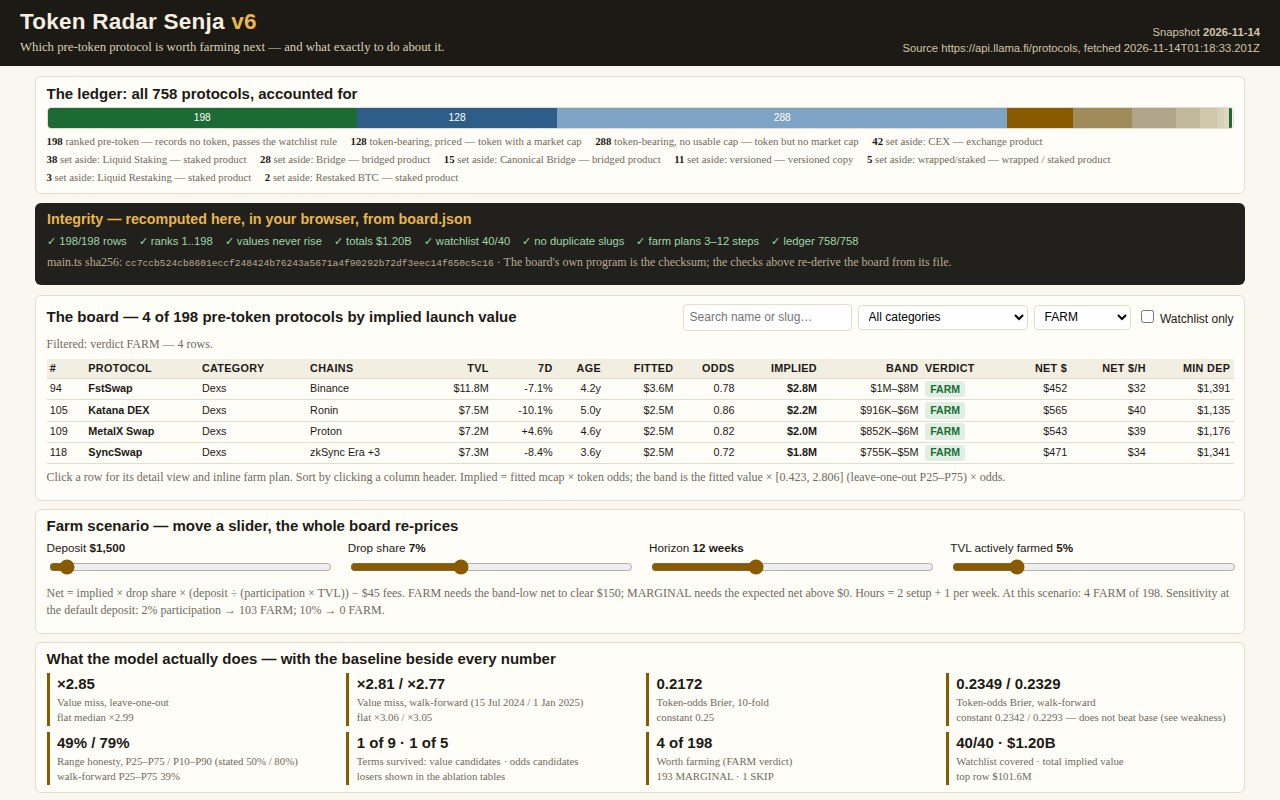
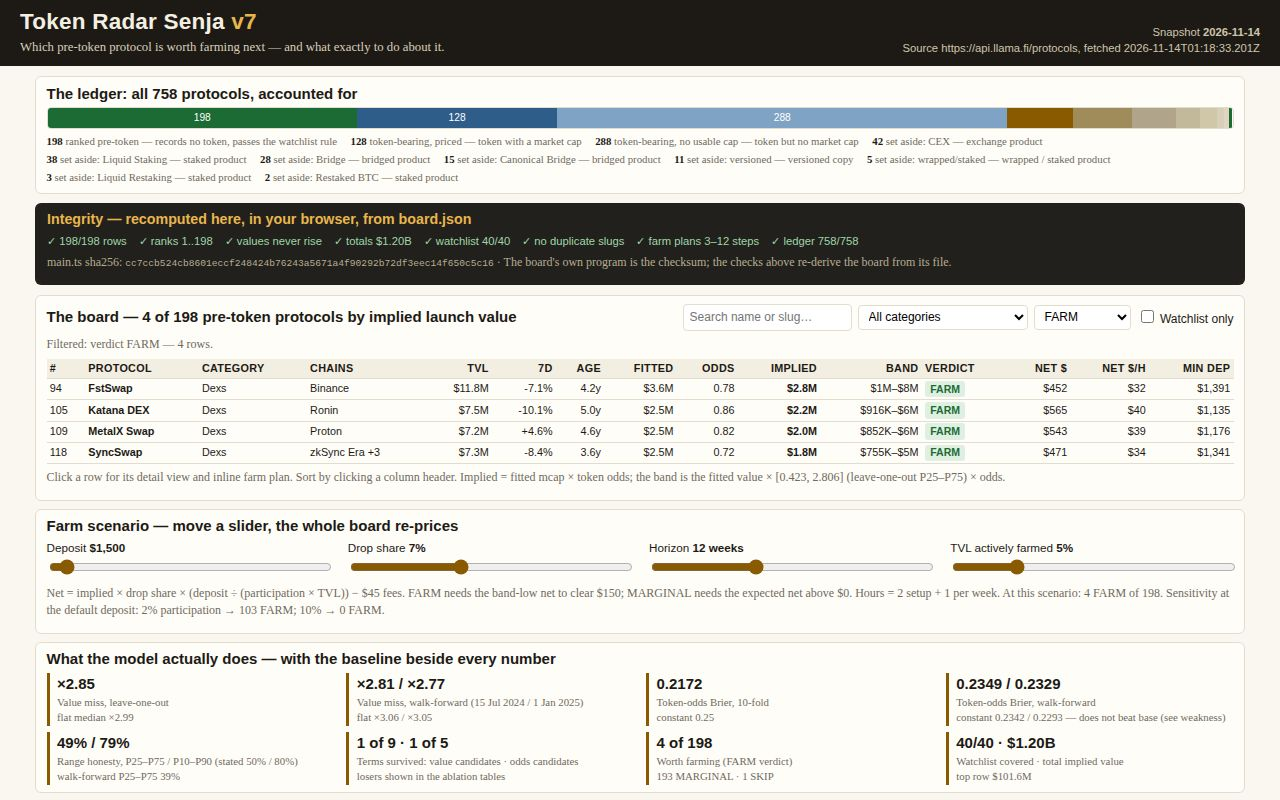
dashboard: v6 label -> v7; re-render screenshots

Changed region(s): [[0.1875, 0.0, 0.2188, 0.0312]]

diff --git a/dashboard/index.html b/dashboard/index.html
@@ -3,14 +3,14 @@
 <head>
 <meta charset="utf-8">
 <meta name="viewport" content="width=device-width, initial-scale=1">
-<title>Token Radar Senja v6 — evidence-first launch-value board</title>
+<title>Token Radar Senja v7 — evidence-first launch-value board</title>
 <link rel="stylesheet" href="app.css">
 </head>
 <body>
 <header class="masthead">
   <div class="masthead-in">
     <div>
-      <h1>Token Radar Senja <span class="v6">v6</span></h1>
+      <h1>Token Radar Senja <span class="v7">v7</span></h1>
       <p class="sub">Which pre-token protocol is worth farming next — and what exactly to do about it.</p>
     </div>
     <div class="mast-side">
@@ -126,7 +126,7 @@
 </main>
 
 <footer>
-  <p>Token Radar Senja v6 · Built from the sealed DefiLlama snapshot of 2026-11-14. Implied values are this entry's own claims, never make.fun's. <span id="footChecksum"></span></p>
+  <p>Token Radar Senja v7 · Built from the sealed DefiLlama snapshot of 2026-11-14. Implied values are this entry's own claims, never make.fun's. <span id="footChecksum"></span></p>
 </footer>
 
 <script src="evidence.js"></script>

diff --git a/dashboard/app.css b/dashboard/app.css
@@ -1,4 +1,4 @@
-/* Token Radar Senja v6 — light editorial theme. Cream paper, ink text, one accent. */
+/* Token Radar Senja v7 — light editorial theme. Cream paper, ink text, one accent. */
 :root{
   --paper:#faf7f0; --card:#fffdf8; --ink:#1d1a16; --muted:#6f6a5e; --line:#e3ddd0;
   --accent:#8a5a00; --accent-bg:#f3e5c8; --green:#1d6b34; --green-bg:#dff0e2;
@@ -19,7 +19,7 @@ a{color:var(--accent)}
 .masthead{background:#1d1a16;color:#f5efe2;padding:.5rem 1rem .6rem}
 .masthead-in{max-width:1240px;margin:0 auto;display:flex;justify-content:space-between;gap:1rem;align-items:flex-end}
 .masthead h1{font-size:1.5rem;letter-spacing:.01em}
-.masthead h1 .v6{color:#e8b64c}
+.masthead h1 .v7{color:#e8b64c}
 .masthead .sub{margin:.25rem 0 0;font-size:.85rem;color:#d8cfba;max-width:640px}
 .mast-side{font-family:'Helvetica Neue',Arial,sans-serif;font-size:.75rem;color:#cfc5ac;text-align:right;white-space:nowrap}
 main{max-width:1240px;margin:0 auto;padding:.7rem 1rem 1.5rem}

diff --git a/dashboard/app.js b/dashboard/app.js
@@ -1,4 +1,4 @@
-/* Token Radar Senja v6 dashboard.
+/* Token Radar Senja v7 dashboard.
    Data: board.json (rows + farm plans, fetched from one level up) and evidence.js
    (everything the board's program computed: model, ablations, bootstrap, census).
    The page renders with no network: the only fetch is the relative board.json beside it.
